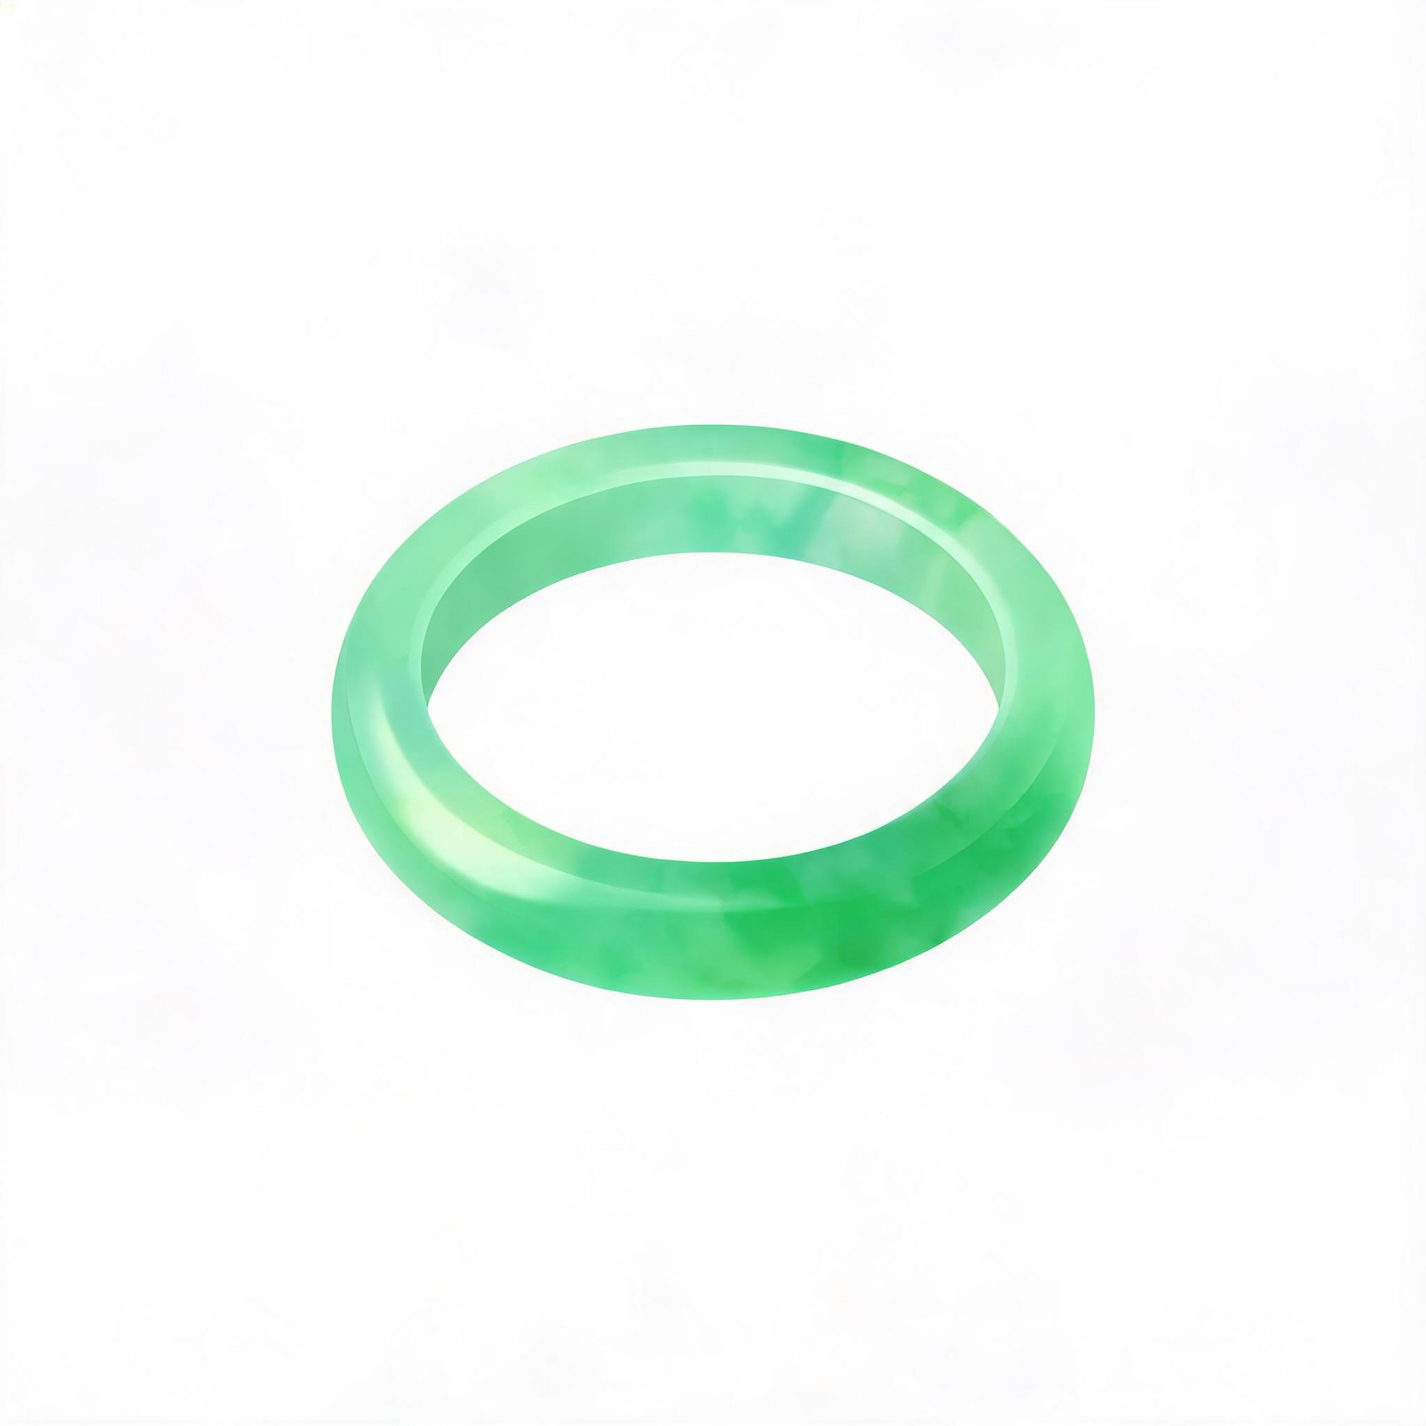
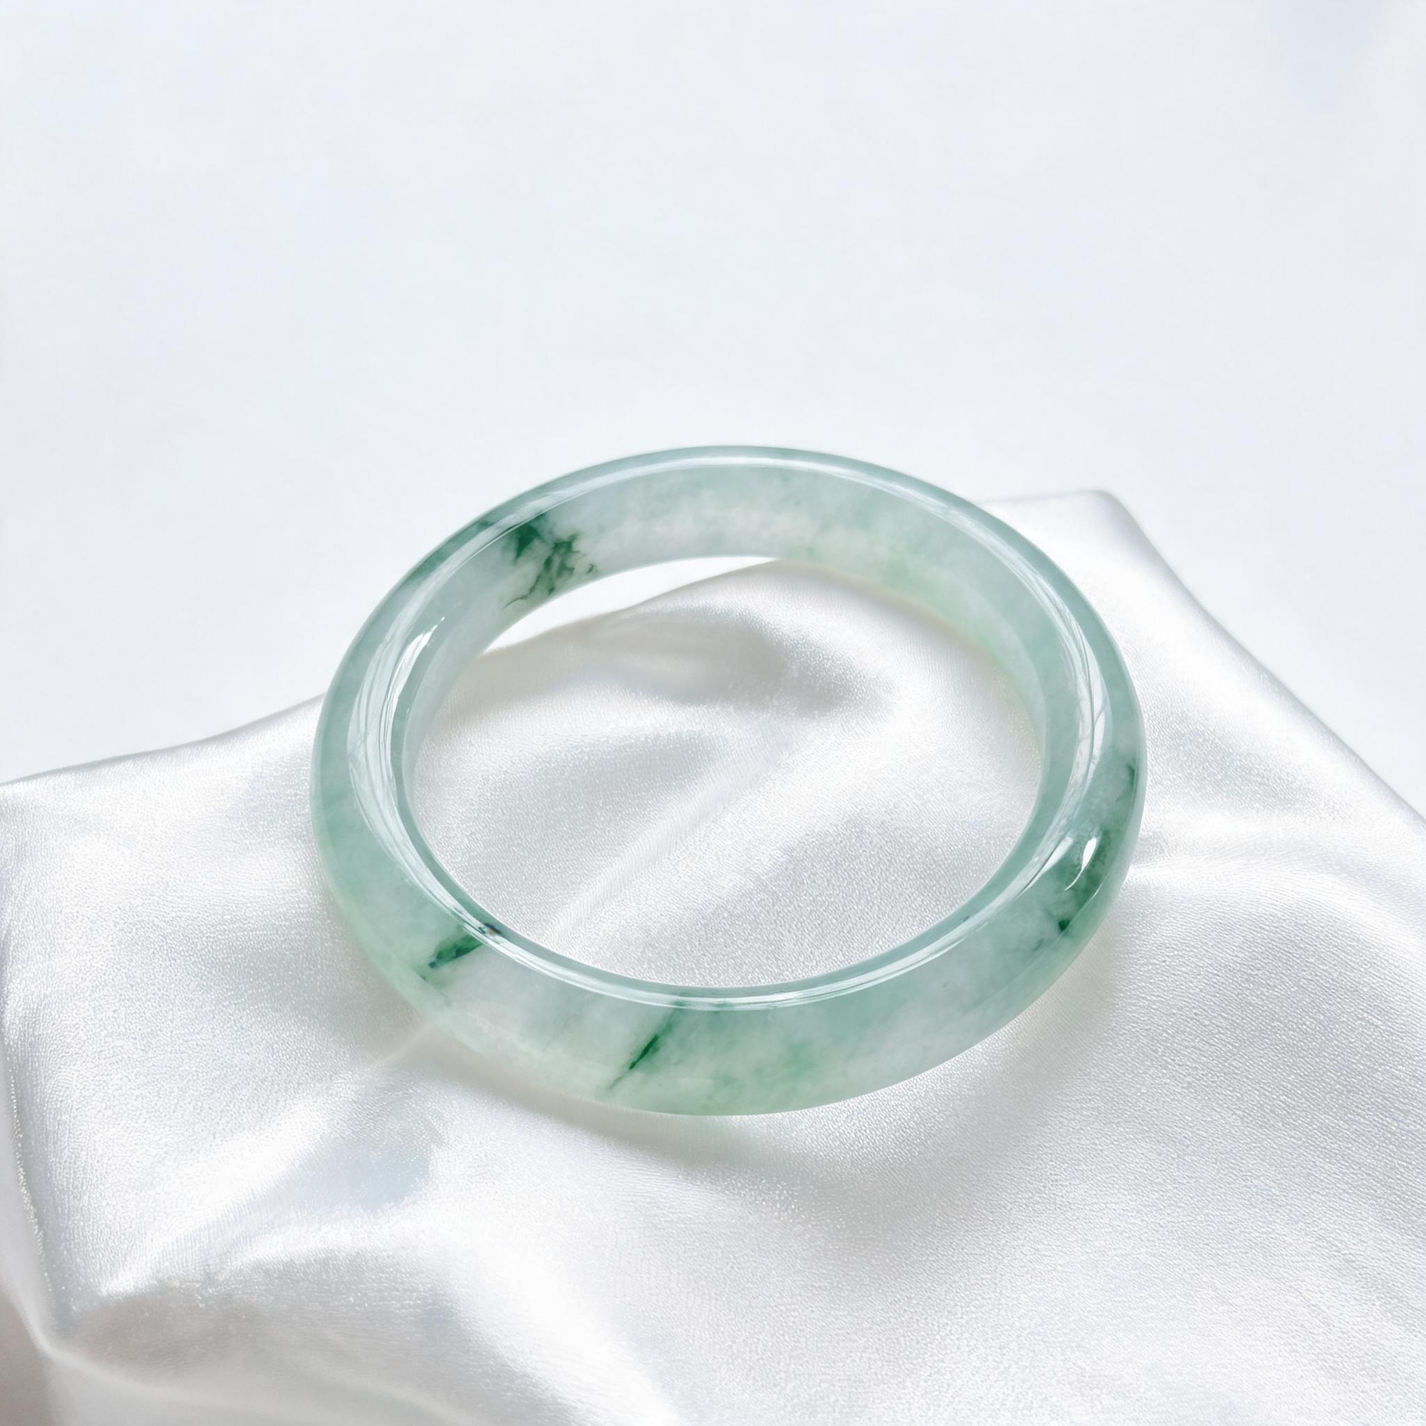
rebuild 第五批：图文匹配工程 N9——旧图识别贴名 + 13 张 AI 主图接入（混合路线）
原站 mock 数据 20 件商品共用 5 套图，图文全面错配（香米配果酱图等）；每日一品
（SKG 养生壶配挂烫机图）与限时购小卡（干洗剂配黑巧克力图）为原站遗留错配。
用户拍板混合路线：改商品数据贴图 + 生产新商品图双管齐下。

落地内容：
1. 旧图内容识别（15 张逐张视觉识别）：goods 系列全系进口食品（Zotter 巧克力/
   新西兰燕麦片/瑞琪奥兰麦卢卡蜂蜜/果蔬酵素/BEBE 草莓果酱/Go ahead 夹心饼干）
   + goods_midea 挂烫机，吻合原站「全球优品特卖」定位；系列 _1/_2/_3 为同商品
   多角度，保留完整相册；
2. 7 件改数据贴旧图（饭煲→巧克力、刀具→挂烫机、咖啡机→酵素、手表→蜂蜜、
   炸锅→夹心饼干、体脂秤→果酱、耳机→燕麦片），名称/品牌/描述/价格/分类
   同步合理化（分类调整：酵素/蜂蜜→营养保健、果酱→进口食品、燕麦→粮油干货、
   挂烫机→null）；
3. 13 张 AI 白底主图逐张视觉质检接入（assets/product/ 语义命名）：牛排/荞麦枕/
   小方包/翡翠镯/枸杞/香米/四件套/骨瓷餐具/洗护套装/保温杯/黄小米/珍珠项链/
   收纳箱；面膜与橄榄油 AI 生成不稳定（乱码/瑕疵连续两轮），按混合路线换商品
   为枸杞/黄小米；翡翠镯新图替换旧塑料感图；历史 jade-bracelet.jpg 一并更新；
4. 接入：seed imageOverrides 全量 15 件；详情相册双形态（image 单图相册 /
   legacy 三图系列相册）；楼层（TV 3 卡蜂蜜/挂烫机/翡翠、尖货 8 卡、详情推荐位
   TOP2）图与商品主图同源；每日一品文案贴挂烫机图（原 SKG 养生壶错配）、
   限时购小卡文案贴黑巧克力图（原干洗剂错配）；购物车接口 image 字段自动生效；
5. seed 重灌（20 条商品，schema 无改动仅 seed）；products.json 全量更新。

验证：vue-tsc + 生产构建通过；dev 全链路冒烟——列表 6 卡/详情单图与三图双
形态/首页 TV+尖货+每日一品+小卡/分类过滤（营养保健 5 件）图文对应，全站
0 图片加载失败，视觉总检查图文全匹配；AI 主图均过质检（纯白底/无乱码/
形态正确）。另：5173 端口为本机另一项目占用，本轮冒烟在 5174 完成。

diff --git a/app/src/views/HomeView.vue b/app/src/views/HomeView.vue
@@ -14,13 +14,19 @@
   - 全球尖货 .item_img 背景为失效外链，已在移植 CSS 内本地等效替换
   新站化（N1/N2/N4，2026-10）：
   - TV 直播区：原站三卡同文同图（双立人文案 + ￥2998 + 家纺场景图，图文不匹配），
-    且倒计时 20:20:20 静态不走；现取 3 件真商品差异化（图/名/价匹配），倒计时
-    接走秒（复用限时购逻辑），卡片点击跳详情；
-  - 全球尖货：原站四卡一品玉红枣完全重复 + 「1970已购买」数字突兀，现取 4 件
-    真商品差异化，已购买数取真实销量，卡片点击跳详情；
+    且倒计时 20:20:20 静态不走；现取 3 件真商品差异化，倒计时接走秒（复用
+    限时购逻辑），卡片点击跳详情；
+  - 全球尖货：原站四卡一品玉红枣完全重复 + 「1970已购买」数字突兀，现为
+    2 行 8 卡网格（grid 4 列等分），已购买数取真实销量，卡片点击跳详情；
   - 品类促销：原站仅标题空模块，补 6 个品类入口卡（复用列表页分类 icon 素材），
     点击跳 /list?category=；
-  - 今日限时购（左卡 + 小卡轮播 + 倒计时）为 1a47646 已修部分，保持原样。
+  - 图文匹配工程（2026-10-29）：楼层卡图与商品主图同源（products.json 的
+    image / legacyUrl），TV 三卡（蜂蜜/挂烫机/翡翠）、尖货八卡（香米/珍珠/
+    巧克力/燕麦/饼干/果酱/牛排/小方包）、每日一品（goods_midea 实为挂烫机，
+    文案由原站「SKG 养生壶」错配改为贴图）、限时购小卡（goods1 实为黑巧
+    克力，文案由原站「干洗剂」错配改为贴图）全部图文一致；
+  - 今日限时购排版（左卡布局 + 小卡两屏轮播 + 倒计时走秒）为 1a47646 已修
+    部分，结构保持原样。
 -->
 <script setup lang="ts">
 import { computed, onBeforeUnmount, onMounted, ref } from 'vue'
@@ -97,27 +103,26 @@ onMounted(() => {
 onBeforeUnmount(() => window.clearInterval(tvTimer))
 
 // —— N1/N2：楼层真商品数据（取自 doc/products.json，展示位静态定义，不额外发请求）——
-// 原站三卡同文同图 / 四卡一品玉红枣完全重复，新站化为真商品差异化；
-// 图与商品一一对应（legacyUrl 系列 goods2~goods6 的 _1 图），消除图文不匹配
-// —— TV 直播卡（同页另一楼层，避开重复选品）
+// 图文匹配工程（2026-10-29）：楼层图与商品主图一一对应（products.json 的
+// image/legacyUrl 同源），消除原站「楼层图与商品无关」的硬编码图文错配；
+// 选品避开同页跨楼层重复（TV 3 件、尖货 8 件互不重叠）
+// —— TV 直播卡（中高价大件贴 TV 购物调性）
 const tvShows = [
-  { sid: 2,  name: '双立人 德国不锈钢刀具七件套', price: 399, img: '/museum/img/goods3_1.jpg' },
-  { sid: 11, name: '飞利浦空气炸锅 大容量 5L',   price: 499, img: '/museum/img/goods2_1.jpg' },
-  { sid: 3,  name: '进口澳洲安格斯牛排 10片装',  price: 158, img: '/museum/img/goods4_1.jpg' },
+  { sid: 10, name: '新西兰麦卢卡蜂蜜 250g×3罐', price: 529,  img: '/museum/img/goods3_1.jpg' },
+  { sid: 2,  name: '美的立式蒸汽挂烫机 香芋紫',  price: 399,  img: '/museum/img/goods_midea.jpg' },
+  { sid: 6,  name: '天然冰种飘花翡翠手镯',        price: 1299, img: '/product/jade-bracelet.jpg' },
 ]
-// —— 全球尖货：8 卡 2 行 4 列网格（用户需求）；选品保持进口/全球品牌调性，
-// 已购买数取真实 sales；图取各自商品系列图（goodsN_1/_2）序号错开，
-// 保证 8 卡视觉不重复且与商品系列一致（goods 系列仅 5 套，同楼层 8 卡必然
-// 跨系列复用，用系列二图错开避免同图相邻）；「直降」标签保持第 2 卡位置
+// —— 全球尖货：8 卡 2 行 4 列网格（用户需求）；选品全为进口/全球品牌贴楼层
+// 调性，已购买数取真实 sales；图与商品主图同源，「直降」标签保持第 2 卡位置
 const globalGoods = [
-  { sid: 9,  name: '泰国香米 10斤装',            price: 79,  img: '/museum/img/goods5_1.jpg', abstract: '泰国原装进口 茉莉香米',        purchased: 1880, tag: '',    regular: 95 },
-  { sid: 8,  name: '全自动家用咖啡机',           price: 899, img: '/museum/img/goods4_1.jpg', abstract: '15bar 意式萃取 现磨现煮',    purchased: 720,  tag: '直降', regular: 1079 },
-  { sid: 16, name: '保温杯 316不锈钢 500ml',   price: 159, img: '/museum/img/goods2_1.jpg', abstract: '316L医用级不锈钢 真空断热', purchased: 510,  tag: '',    regular: 189 },
-  { sid: 17, name: '橄榄油 特级初榨 750ml×2', price: 128, img: '/museum/img/goods3_1.jpg', abstract: '西班牙原瓶进口 第一道冷榨',   purchased: 890,  tag: '',    regular: 155 },
-  { sid: 18, name: '运动蓝牙耳机 挂颈式',       price: 349, img: '/museum/img/goods4_2.jpg', abstract: '磁吸入耳 IPX5防水',          purchased: 630,  tag: '',    regular: 399 },
-  { sid: 19, name: '珍珠项链 淡水正圆强光',     price: 899, img: '/museum/img/goods5_2.jpg', abstract: '正圆强光珍珠 附权威证书',    purchased: 145,  tag: '',    regular: 1099 },
-  { sid: 5,  name: '女士真皮单肩小方包',        price: 499, img: '/museum/img/goods6_1.jpg', abstract: '头层牛皮 复古五金件',        purchased: 320,  tag: '',    regular: 599 },
-  { sid: 7,  name: '玻尿酸补水面膜 30片',      price: 89,  img: '/museum/img/goods3_2.jpg', abstract: '小分子玻尿酸 敏感肌可用',   purchased: 1560, tag: '',    regular: 109 },
+  { sid: 9,  name: '泰国茉莉香米 10斤装',              price: 79,  img: '/product/jasmine-rice.jpg',  abstract: '泰国原装进口 茉莉香米',        purchased: 1880, tag: '',    regular: 95 },
+  { sid: 19, name: '淡水珍珠项链 7.5-8mm 正圆强光',    price: 899, img: '/product/pearl-necklace.jpg', abstract: '正圆强光珍珠 附分级证书',    purchased: 145,  tag: '直降', regular: 1099 },
+  { sid: 1,  name: '奥地利 Zotter 100% 黑巧克力排块',   price: 79,  img: '/museum/img/goods1.jpg',     abstract: '奥地利进口 100%秘鲁可可',   purchased: 1280, tag: '',    regular: 99 },
+  { sid: 18, name: '新西兰进口亚麻籽即食燕麦片 500g',  price: 89,  img: '/museum/img/goods2_1.jpg',    abstract: '新西兰原产 低GI代餐',       purchased: 630,  tag: '',    regular: 109 },
+  { sid: 11, name: '英国 Go ahead 酸奶涂层夹心饼干',    price: 128, img: '/museum/img/goods6_1.jpg',    abstract: '英国进口 酸奶涂层夹心',      purchased: 980,  tag: '',    regular: 159 },
+  { sid: 13, name: 'BEBE 特级草莓果酱 340g',            price: 59,  img: '/museum/img/goods5_1.jpg',    abstract: '57%高果肉含量 进口果酱',    purchased: 1320, tag: '',    regular: 79 },
+  { sid: 3,  name: '进口澳洲安格斯原切牛排 10片装',    price: 158, img: '/product/beef-steak.jpg',   abstract: '原肉整切 冷链直达',          purchased: 2140, tag: '',    regular: 199 },
+  { sid: 5,  name: '女士真皮单肩小方包 酒红色',        price: 499, img: '/product/leather-bag.jpg',  abstract: '头层牛皮 复古五金件',        purchased: 320,  tag: '',    regular: 599 },
 ]
 
 // —— N4：品类促销入口（原站空模块，补 6 个频道分类卡，icon 素材同列表页 tab）——
@@ -224,14 +229,14 @@ function goCategoryList(title: string) {
             <div class="everyDayimg">
               <img src="/museum/img/goods_midea.jpg"/>
             </div>
-            <p class="everyDay_tjs"> 滋补养生 一壶多用</p>
-            <p class="everyDay_tt">SKG 多功能养生壶 加厚硼硅玻璃1.8L保温电水壶 8056C 咖啡色  共同</p>
+            <p class="everyDay_tjs"> 轻松熨烫 衣物除皱</p>
+            <p class="everyDay_tt">美的立式蒸汽挂烫机 多档位面料调节 可升降衣架 香芋紫</p>
             <p class="everyDay_price">
-              <span>￥149</span>
-              <em>￥199</em>
+              <span>￥399</span>
+              <em>￥499</em>
             </p>
             <div class="everyDay_tag">
-              <span>立减<br />50元</span>
+              <span>立减<br />100元</span>
             </div>
             <div class="everyDay_tag2">
               <i></i><span>每日一品</span>
@@ -247,10 +252,10 @@ function goCategoryList(title: string) {
                 <div class="lunImg">
                   <img src="/museum/img/goods1.jpg" alt="" />
                 </div>
-                <p class="everyDay_tt">澳洲进口喜运亨羽绒服毛呢干洗剂清洗剂衣物免水洗家用大衣布艺去油清洁剂50ml*2</p>
+                <p class="everyDay_tt">奥地利进口 Zotter 100%秘鲁可可 黑巧克力排块 纯素无乳糖零蔗糖</p>
                 <p class="everyDay_price">
-                  <span>￥149</span>
-                  <em>￥199</em>
+                  <span>￥79</span>
+                  <em>￥109</em>
                 </p>
               </div>
             </li>

diff --git a/app/src/views/ItemView.vue b/app/src/views/ItemView.vue
@@ -38,9 +38,12 @@ const product = ref<Product | null>(null)
 const error = ref<string | null>(null)
 const sid = computed(() => Number(route.params.sid))
 
-// 原站渲染规则：${URL}_1/_2/_3.jpg 三图系列，素材已迁至 /museum/img/
+// 原站渲染规则：${URL}_1/_2/_3.jpg 三图系列，素材已迁至 /museum/img/。
+// 图文匹配工程（2026-10）：有 AI 主图（image）的商品相册为单图；
+// 贴 legacy 系列图的商品沿用 _1/_2/_3 三图相册（原站系列即同商品多角度）
 const galleryImgs = computed(() => {
   if (!product.value) return []
+  if (product.value.image) return [product.value.image]
   const base = (product.value.legacyUrl ?? '').split('/').pop() ?? ''
   return [1, 2, 3].map((n) => `/museum/img/${base}_${n}.jpg`)
 })
@@ -74,10 +77,10 @@ function goCategory(category: string) {
 }
 
 // N6：「大家都在看」真商品卡（取 doc/products.json 销量 TOP2，静态展示位定位
-// 同首页楼层，不额外发请求），点击跳对应详情
+// 同首页楼层，不额外发请求），点击跳对应详情；图同商品主图（图文匹配工程）
 const alsoLikes = [
-  { sid: 3, name: '进口澳洲安格斯牛排 10片装', price: 158, img: '/museum/img/goods4_1.jpg' },
-  { sid: 9, name: '泰国香米 10斤装', price: 79, img: '/museum/img/goods5_1.jpg' },
+  { sid: 3, name: '进口澳洲安格斯原切牛排 10片装', price: 158, img: '/product/beef-steak.jpg' },
+  { sid: 9, name: '泰国茉莉香米 10斤装', price: 79, img: '/product/jasmine-rice.jpg' },
 ]
 
 // —— 数量选择器（原站：减到 1 为止、加无上限） ——

diff --git a/server/scripts/seed.ts b/server/scripts/seed.ts
@@ -26,9 +26,27 @@ const MENU_DATA: { title: string; item: string[]; icon: string }[] = [
   { title: '美肤靓妆', item: ['面部护理', '洗护护理', '美容仪器', '身体护理', '彩妆香水'], icon: 'newsix_11.png' },
 ]
 
-// 已有 AI 商品主图的商品（assets/product/，前端经 publicDir 直取）
+// AI 商品主图（assets/product/，前端经 publicDir 直取）。
+// 图文匹配工程（2026-10-29）：13 件 AI 生成白底主图逐张视觉质检合格后接入；
+// 贴 legacy 系列图的商品（8/10/11/13/18 → goods3~goods6 同一商品多角度系列）
+// 不设 image，列表/相册沿用 legacyUrl 拼图；goods1/goods_midea 无 _1/_2/_3 系列
+// 后缀，以 image 直指原图路径。
 const imageOverrides: Record<number, string> = {
+  1: '/museum/img/goods1.jpg',
+  2: '/museum/img/goods_midea.jpg',
+  3: '/product/beef-steak.jpg',
+  4: '/product/buckwheat-pillow.jpg',
+  5: '/product/leather-bag.jpg',
   6: '/product/jade-bracelet.jpg',
+  7: '/product/goji-berry.jpg',
+  9: '/product/jasmine-rice.jpg',
+  12: '/product/cotton-bedding.jpg',
+  14: '/product/bone-china.jpg',
+  15: '/product/hair-care-set.jpg',
+  16: '/product/thermo-cup.jpg',
+  17: '/product/yellow-millet.jpg',
+  19: '/product/pearl-necklace.jpg',
+  20: '/product/storage-box.jpg',
 }
 
 const rawPath = fileURLToPath(new URL('../../doc/products.json', import.meta.url))

diff --git a/doc/优化清单.md b/doc/优化清单.md
@@ -10,9 +10,16 @@
 > - ✅ 第二批 `4487f0f`：I2/I3/I4/I5/I6/I7/I8/I9/T4/T5——搜索闭环/结算提示/二维码弹层/轮播增强/回跳/标题/菜单去重/404 兕底，逐项冒烟通过；
 > - ✅ 第三批 `d5b2951`：D1/D3/D2——分类过滤 + 面包屑接路由 + 销量/上架时间排序（db:push --force + seed 重灌，cart/users 表不受影响），冒烟通过；
 > - ✅ 第四批：N1-N8 内容新站化（N3/N8 合并实现）——TV 直播 3 卡差异化 + 倒计时走秒、
->   全球尖货 4 卡差异化 + 真实销量、评论数两页同源、品类促销补 6 品类入口卡、公告差异化、
->   「大家都在看」整图卡改真商品卡、版权演示站化，vue-tsc + 构建通过，逐项冒烟通过；
-> - ⏳ 待办：P1-P3（部署前）、C2（保持原样）。
+>   全球尖货 2 行 8 卡网格 + 真实销量、评论数两页同源、品类促销补 6 品类入口卡、公告差异化、
+>   「大家都在看」整图卡改真商品卡、版权演示站化，逐项冒烟通过；
+>   （后续两次复查修正：全球尖货客观重构 grid 2×4 消 3+1 断裂与 float 塌陷 + span>p 等
+>   hack 清理 `6b5af5b`；2 行 8 卡扩容 + footer 主体间距 30px `f225831`）
+> - ✅ 第五批：N9 图文匹配工程（混合路线，用户拍板）——旧图内容识别 + 7 件改数据贴图
+>   + 13 张 AI 主图逐张质检接入，全链路图文一致，冒烟通过；
+> - ⏳ 待办：P1-P3（用户定：等准备部署时再做）、C2（保持原样）。
+>
+> 第四批备注：楼层商品图已与商品主图同源（N9 工程后图与商品一一对应），
+> 原备注「素材库 5 套图先天约束」已被 N9 混合路线彻底解决。
 >
 > 第四批备注：首页楼层图与商品的对应沿用原 mock 数据 legacyUrl 契约（20 商品共用 5 套图，
 > goods4_1 等图与商品名的贴切度受素材库先天约束，站内列表/详情/楼层同图一致，非回归）。
@@ -47,6 +54,7 @@
 | N6 | 内容 | 详情页「大家都在看」空模块 | 小 | 按需 | ✅ 第四批 |
 | N7 | 内容 | 版权信息为原站遗留（2007-2017） | 极小 | 按需 | ✅ 第四批 |
 | N8 | 内容 | 列表/详情评论数不一致（40 vs 50） | 极小 | 按需 | ✅ 第四批（与 N3 同源实现） |
+| N9 | 数据+素材 | 商品图文全面错配（20 商品共用 5 套图） | 大 | 五 | ✅ 第五批 |
 | C2 | 死链说明 | 顶部 5 个无对应功能的死链 | 说明项 | 保持原样 | ⏳ 保持 |
 | P1 | 部署 | server 未托管 dist 静态产物 | 小 | 部署前 | ⏳ |
 | P2 | 部署 | COOKIE_SECRET 默认值硬编码 | 极小 | 部署前 | ⏳ |
@@ -448,6 +456,36 @@ hover 红边、点击跳详情。
 **落地**：两处均接 `commentCount(sid)`（见 N3），同 sid 同值，冒烟实测
 SID2 两页均为 82、SID3 均为 30。
 
+### N9 商品图文匹配工程（大）✅（第五批）
+
+**问题**：原站 mock 数据 20 件商品共用 5 套图（goods2~goods6 各 3 张系列图），
+图文全面错配（泰国香米配草莓果酱图、保温杯配燕麦袋图等）；每日一品（「SKG
+养生壶」文案配 goods_midea 挂烫机图）与限时购小卡（「干洗剂」文案配 goods1
+黑巧克力图）为原站遗留错配。
+
+**方案（混合路线，用户 2026-10-29 拍板）**：改商品数据贴图 + 生产新商品图
+双管齐下。
+
+**落地**：
+1. 旧图内容识别（15 张逐一视觉识别）：goods 系列 6 款均为进口食品（Zotter
+   巧克力/新西兰燕麦片/瑞琪奥兰麦卢卡蜂蜜/果蔬酵素原液/BEBE 草莓果酱/Go
+   ahead 夹心饼干）+ goods_midea 挂烫机，吻合原站「全球优品特卖」定位；
+   系列图 _1/_2/_3 为同商品多角度，可作完整相册；
+2. 7 件改数据贴旧图（严格品类让位）：饭煲→巧克力、刀具→挂烫机、咖啡机→
+   酵素、手表→蜂蜜、炸锅→夹心饼干、体脂秤→果酱、耳机→燕麦片；名称/品牌/
+   描述/价格/分类同步合理化；
+3. 13 张 AI 白底主图（每张视觉质检合格后接入，落盘 assets/product/ 语义
+   命名）：面膜/橄榄油 AI 生成不稳定 → 按混合路线换商品为枸杞/黄小米；
+   翡翠镯新图替换旧塑料感图；
+4. 接入：seed imageOverrides 全量（15 件）；详情相册双形态（image 单图 /
+   legacy 三图系列）；楼层（TV 3 卡/尖货 8 卡/推荐位 2 卡）、每日一品、
+   限时购小卡文案全部贴图；购物车接口已含 image 字段自动生效；
+5. 全链路冒烟：列表/详情/首页/分类过滤图文对应，全站 0 图片加载失败，
+   视觉总检查图文全匹配。
+
+**验证要点**：列表页与详情页同商品同图；AI 主图无乱码/无畸形/纯白底；
+分类过滤（营养保健 5 件/进口食品 2 件等）与图名一致。
+
 ---
 
 ## 六、部署与运维（部署前）
@@ -484,7 +522,9 @@ fallback（回 index.html）；或继续沿用「静态服务托管 dist + Fasti
 3. ✅ **第三批** `d5b2951`：D1 → D3 → D2（schema 一次改动；D3 依赖 D1，同批先后执行）；
 4. ✅ **第四批**：N1 → N2 → N4 → N5 → N6 → N7 → N3/N8（内容新站化，N3 与 N8
    合并为 commentCount 同源实现）；
-5. ⏳ **部署前**：P1-P3（静态托管、会话密钥、数据目录迁移）。
+5. ✅ **第五批**：N9 图文匹配工程（旧图识别贴名 + 13 张 AI 主图接入，
+   混合路线）；
+6. ⏳ **部署前**：P1-P3（用户定：等准备部署时再做）。
 
 每批完成后跑 `npm run build -w app`（类型 + 构建）并逐页冒烟；git 提交按项目
 惯例带 `Co-authored-by: TeleAgent <noreply@teleagent.cn>` 署名。
